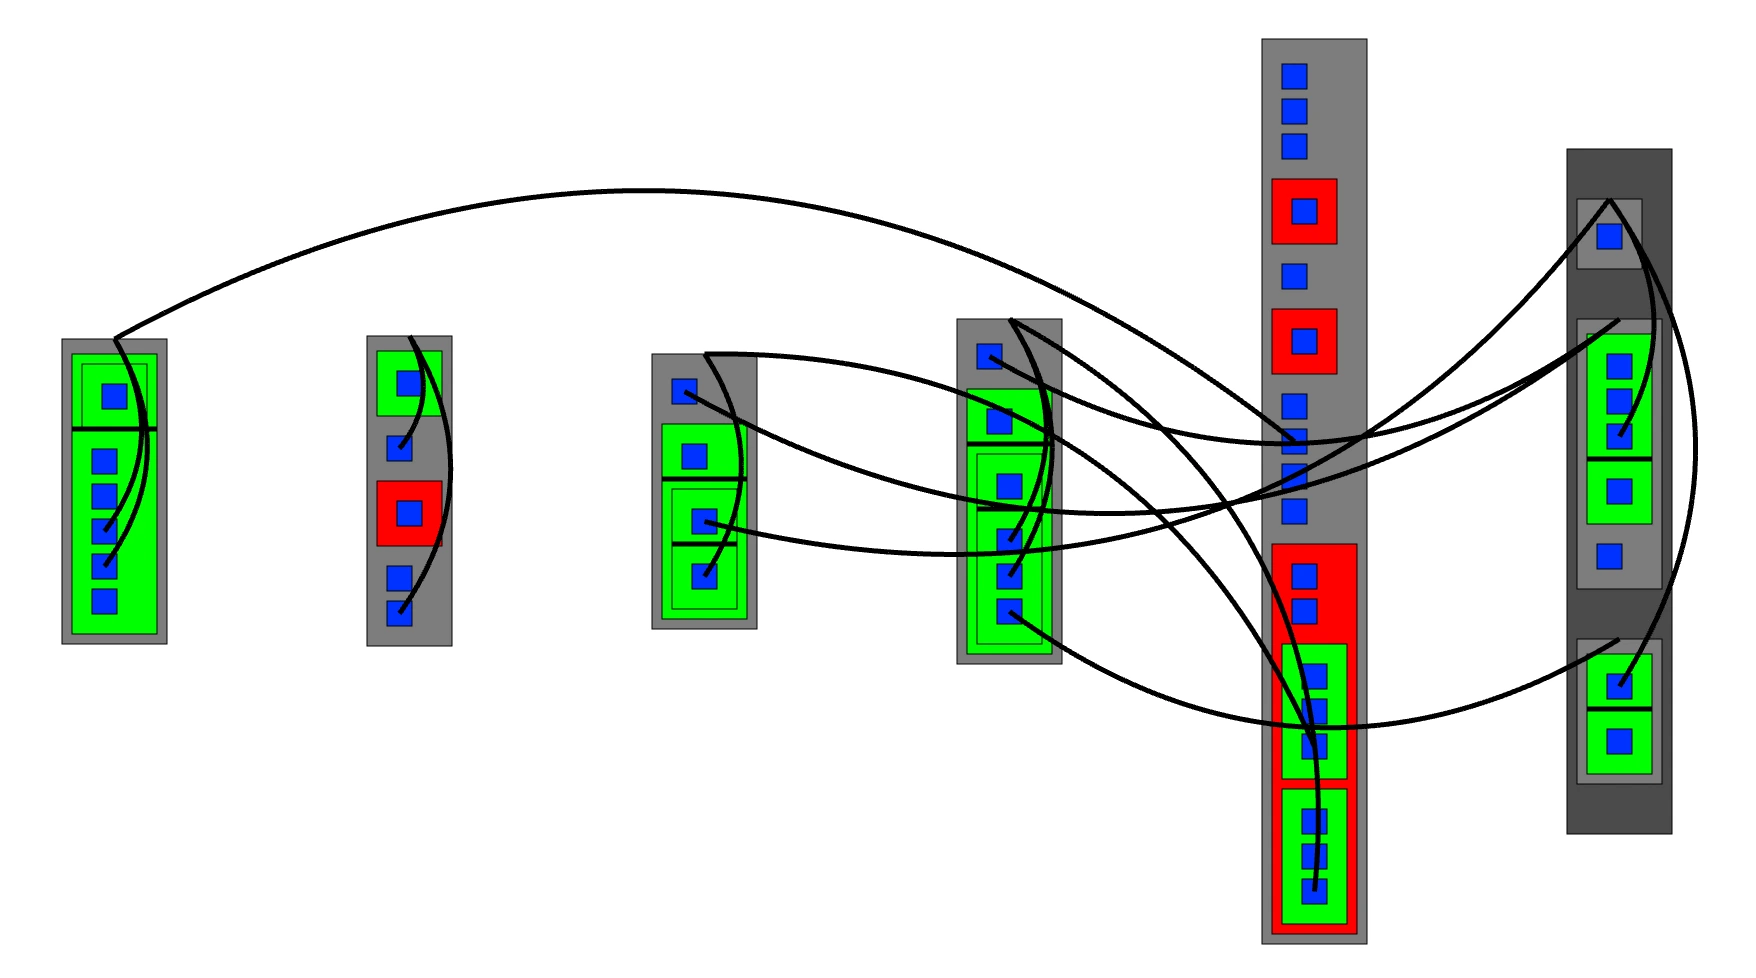
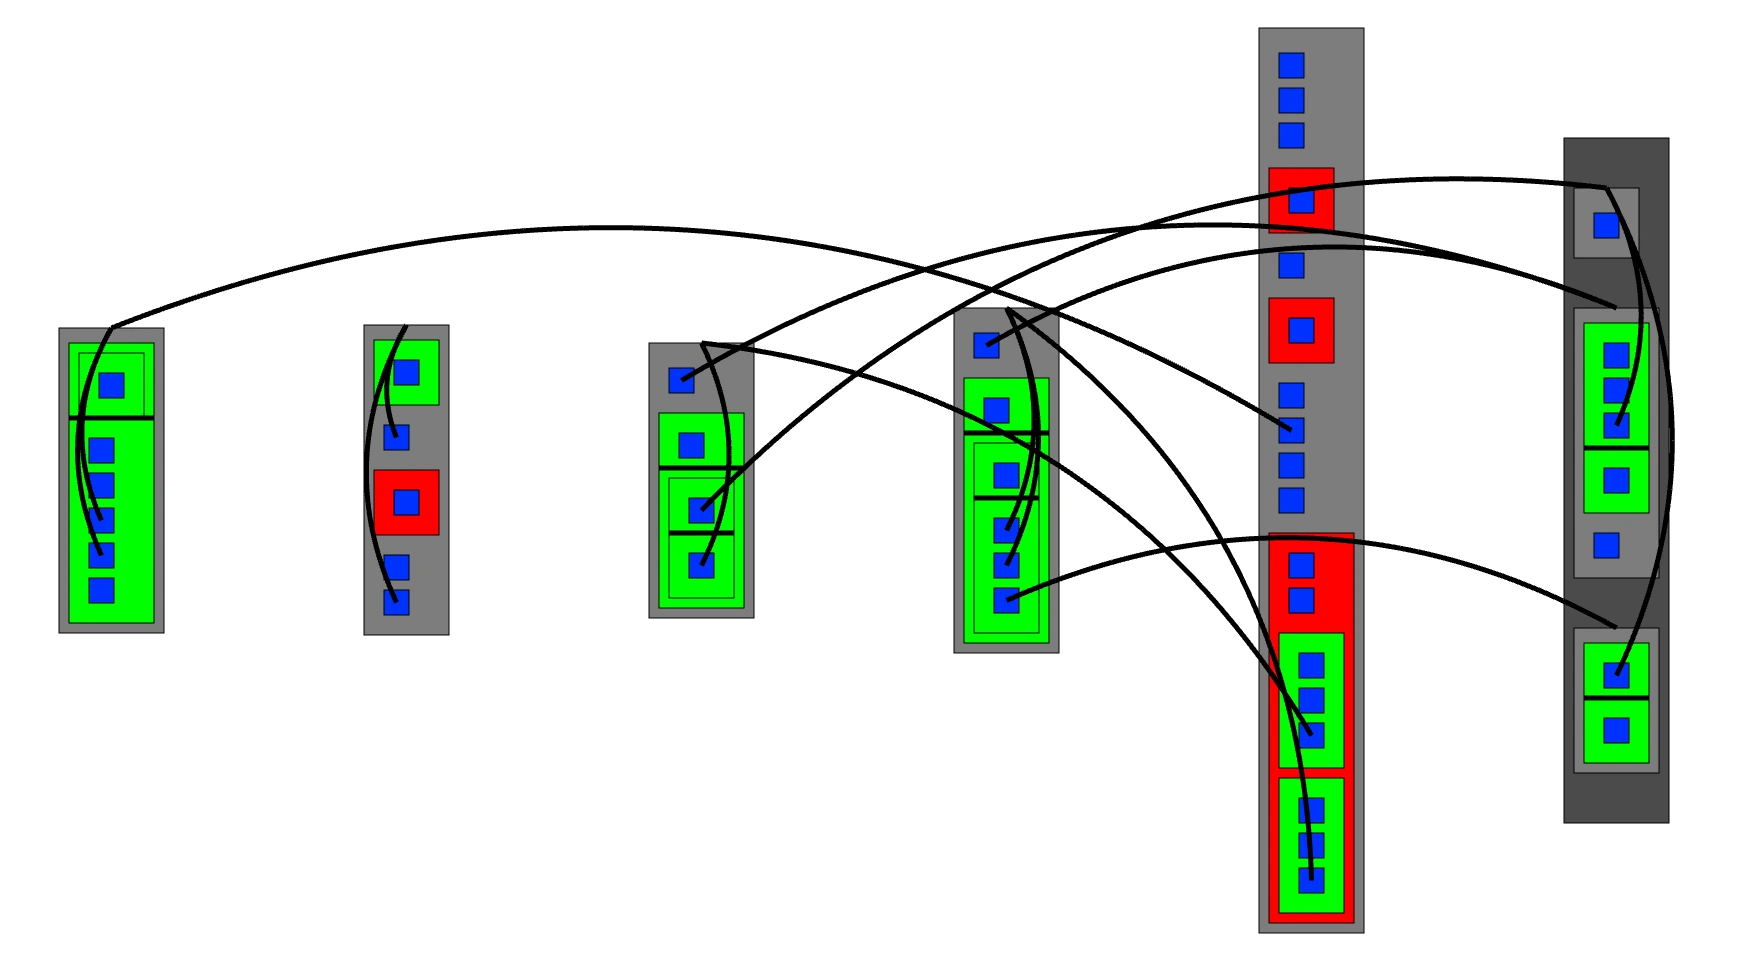
v1.1.2

diff --git a/visualizer/visualizer.py b/visualizer/visualizer.py
@@ -122,11 +122,13 @@ class Parser:
                 elif cursor.kind.name == 'CLASS_DECL':
                     if self.code_tree.classes.get(cursor.get_usr()) is None:
                         self.code_tree.classes[cursor.get_usr()] = Class(None)
-                    self.code_tree.classes[cursor.get_usr()].parse_cpp(cursor, self.bruteforce, self.verbose)
+                    self.code_tree.classes[cursor.get_usr()].parse_cpp(cursor, self.code_tree, self.bruteforce,
+                                                                       self.verbose)
                 elif cursor.kind.name == 'STRUCT_DECL':
                     if self.code_tree.structures.get(cursor.get_usr()) is None:
                         self.code_tree.structures[cursor.get_usr()] = Struct(None)
-                    self.code_tree.structures[cursor.get_usr()].parse_cpp(cursor, self.code_tree, self.bruteforce, self.verbose)
+                    self.code_tree.structures[cursor.get_usr()].parse_cpp(cursor, self.code_tree, self.bruteforce,
+                                                                          self.verbose)
                 else:
                     output_error(self.bruteforce, "Error: ", cursor.kind.name, " not supported!!")
 
@@ -134,7 +136,11 @@ class Parser:
         self.code_tree.nodes.append(node)
         if type(node) != CodeLine:
             for i in node.body_nodes:
-                self.detect_all_objects(i)
+                if type(i) == str:
+                    # this is a dictionary
+                    self.detect_all_objects(node.body_nodes[i])
+                else:
+                    self.detect_all_objects(i)
             if type(node) == If:
                 for i in node.else_nodes:
                     self.detect_all_objects(i)
@@ -219,7 +225,12 @@ class Visualizer(arcade.Window):
         self.graphics_info[node] = NodeGraphicsInfo(node)
         if type(node) != CodeLine:
             for i in node.body_nodes:
-                self.set_graphics_info(i)
+                if type(i) == str:
+                    # this is a dictionary
+                    self.set_graphics_info(node.body_nodes[i])
+                else:
+                    self.set_graphics_info(i)
+
             # FIXME: probably this if type(node) == If thing should have a more elegant solution
             if type(node) == If:
                 for i in node.else_nodes:
@@ -314,19 +325,22 @@ class Visualizer(arcade.Window):
             self.graphics_info[node].size_y = 0 + scaler.BUFFER_SIZE_CLASS_VERTICAL * (len(node.body_nodes) + 1)
             # calculate new size:
             for i in node.body_nodes:
-                self.compute_node_size(i, scaler)
-                self.graphics_info[node].size_y += self.graphics_info[i].size_y
+                self.compute_node_size(node.body_nodes[i], scaler)
+                self.graphics_info[node].size_y += self.graphics_info[node.body_nodes[i]].size_y
                 self.graphics_info[node].size_x = max(self.graphics_info[node].size_x,
-                                                      self.graphics_info[i].size_x + scaler.BUFFER_SIZE_HORIZONTAL * 2)
+                                                      self.graphics_info[node.body_nodes[i]].size_x +
+                                                      scaler.BUFFER_SIZE_HORIZONTAL * 2)
+
         elif type(node) == Struct:
             self.graphics_info[node].size_x = 0
             self.graphics_info[node].size_y = 0 + scaler.BUFFER_SIZE_CLASS_VERTICAL * (len(node.body_nodes) + 1)
             # calculate new size:
             for i in node.body_nodes:
-                self.compute_node_size(i, scaler)
-                self.graphics_info[node].size_y += self.graphics_info[i].size_y
+                self.compute_node_size(node.body_nodes[i], scaler)
+                self.graphics_info[node].size_y += self.graphics_info[node.body_nodes[i]].size_y
                 self.graphics_info[node].size_x = max(self.graphics_info[node].size_x,
-                                                      self.graphics_info[i].size_x + scaler.BUFFER_SIZE_HORIZONTAL * 2)
+                                                      self.graphics_info[node.body_nodes[i]].size_x +
+                                                      scaler.BUFFER_SIZE_HORIZONTAL * 2)
         else:
             raise RuntimeError("unknown type:", type(node))
 
@@ -374,15 +388,15 @@ class Visualizer(arcade.Window):
             offset_x += scaler.BUFFER_SIZE_HORIZONTAL
             for i in node.body_nodes:
                 offset_y -= scaler.BUFFER_SIZE_CLASS_VERTICAL
-                offset_y -= self.graphics_info[i].size_y
-                self.compute_node_position(i, scaler, offset_x, offset_y)
+                offset_y -= self.graphics_info[node.body_nodes[i]].size_y
+                self.compute_node_position(node.body_nodes[i], scaler, offset_x, offset_y)
         elif type(node) == Struct:
             offset_y += self.graphics_info[node].size_y
             offset_x += scaler.BUFFER_SIZE_HORIZONTAL
             for i in node.body_nodes:
                 offset_y -= scaler.BUFFER_SIZE_CLASS_VERTICAL
-                offset_y -= self.graphics_info[i].size_y
-                self.compute_node_position(i, scaler, offset_x, offset_y)
+                offset_y -= self.graphics_info[node.body_nodes[i]].size_y
+                self.compute_node_position(node.body_nodes[i], scaler, offset_x, offset_y)
         else:
             raise RuntimeError("unknown type:", type(node))
 
@@ -410,17 +424,21 @@ class Visualizer(arcade.Window):
             prev_point_x = self.graphics_info[node].start_pos_x
             prev_point_y = self.graphics_info[node].start_pos_y
 
+            curvature_sign = 1
+            if self.graphics_info[node].end_pos_x - self.graphics_info[node].start_pos_x > 0:
+                curvature_sign = -1
+
             while t < 1.001:
                 v = [self.graphics_info[node].end_pos_x - self.graphics_info[node].start_pos_x,
                      self.graphics_info[node].end_pos_y - self.graphics_info[node].start_pos_y]
                 perp_v = [v[1], -v[0]]
                 x = quadBezier(t, self.graphics_info[node].start_pos_x,
                                (self.graphics_info[node].start_pos_x + self.graphics_info[node].end_pos_x) // 2 +
-                               perp_v[0] * self.scaler.LINE_CURVATURE,
+                               perp_v[0] * self.scaler.LINE_CURVATURE * curvature_sign,
                                self.graphics_info[node].end_pos_x)
                 y = quadBezier(t, self.graphics_info[node].start_pos_y,
                                (self.graphics_info[node].start_pos_y + self.graphics_info[node].end_pos_y) // 2 +
-                               perp_v[1] * self.scaler.LINE_CURVATURE,
+                               perp_v[1] * self.scaler.LINE_CURVATURE * curvature_sign,
                                self.graphics_info[node].end_pos_y)
                 arcade.draw_line(prev_point_x, prev_point_y,
                                  x, y,
@@ -459,8 +477,14 @@ class Visualizer(arcade.Window):
         if type(node) != CodeLine:
             offset_y = 0
             for i in node.body_nodes:
-                self.recursive_node_draw(i)
-                offset_y += self.graphics_info[i].size_y + self.scaler.BUFFER_SIZE_VERTICAL
+                if type(i) == str:
+                    # this is a dictionary
+                    self.recursive_node_draw(node.body_nodes[i])
+                    offset_y += self.graphics_info[node.body_nodes[i]].size_y + self.scaler.BUFFER_SIZE_VERTICAL
+                else:
+                    self.recursive_node_draw(i)
+                    offset_y += self.graphics_info[i].size_y + self.scaler.BUFFER_SIZE_VERTICAL
+
             if type(node) == If and node.else_nodes:
                 arcade.draw_line(self.graphics_info[node].pos_x,
                                  self.graphics_info[node].pos_y + self.graphics_info[node].size_y - offset_y,

diff --git a/visualizer/tree_objects.py b/visualizer/tree_objects.py
@@ -189,20 +189,35 @@ class Function(Node):
 class Class(Node):
     def __init__(self, parent_node):
         super().__init__(parent_node)
-        self.body_nodes = []
+        self.body_nodes = {}
         self.name = ""
 
-    def parse_cpp(self, cursor: clang.cindex.Cursor, bruteforce: bool, verbose: bool):
+    def parse_cpp(self, cursor: clang.cindex.Cursor, code_tree: CodeTree, bruteforce: bool, verbose: bool):
         self.name = cursor.spelling
 
-        # FIXME: parse class data (methods are parsed externally)
+        for i in cursor.get_children():
+            if i.kind.name == 'FIELD_DECL':
+                pass
+                # TODO: parse field declarations
+            elif i.kind.name == 'CONSTRUCTOR':
+                pass
+                # TODO: parse struct constructor
+            elif i.kind.name == 'CXX_METHOD':
+                code_tree.methods[i.get_usr()] = Function(self)
+                self.body_nodes[i.get_usr()] = code_tree.methods[i.get_usr()]
+                code_tree.methods[i.get_usr()].parse_cpp(i, bruteforce, verbose)
+            elif i.kind.name == 'CXX_ACCESS_SPEC_DECL':
+                pass
+                # nothing should be here, access specifiers are taken from methods themselves
+            else:
+                output_error(bruteforce, "Unknown class field: ", i.kind.name, " location: ", i.location)
         # TODO: add print method
 
 
 class Struct(Node):
     def __init__(self, parent_node):
         super().__init__(parent_node)
-        self.body_nodes = []
+        self.body_nodes = {}
         self.name = ""
 
     def parse_cpp(self, cursor: clang.cindex.Cursor, code_tree: CodeTree, bruteforce: bool, verbose: bool):
@@ -219,7 +234,7 @@ class Struct(Node):
                 # TODO: parse struct constructor
             elif i.kind.name == 'CXX_METHOD':
                 code_tree.methods[i.get_usr()] = Function(self)
-                self.body_nodes.append(code_tree.methods[i.get_usr()])
+                self.body_nodes[i.get_usr()] = code_tree.methods[i.get_usr()]
                 code_tree.methods[i.get_usr()].parse_cpp(i, bruteforce, verbose)
             elif i.kind.name == 'CXX_BASE_SPECIFIER':
                 pass

diff --git a/README.md b/README.md
@@ -1,4 +1,4 @@
-# visualizer (v1.1.1b)
+# visualizer (v1.1.2)
 
 This project aims to make a quick visual representation for a C++ project (though Python support is planned).
 
@@ -51,11 +51,10 @@ Why not use `<insert your favorite C++ parser>`?
 so only by using a compiler can we get a 100% correct output.
 Easiest example is `operator <<` which in most parsers is registered as a `binary expression`, when in reality it is a `function call`. 
 
-# What's new in v1.1.1?
-* Curved lines fix
-* Only showing correctly parsed functions / classes
-* Support for 'brute-force' mode and 'verbose mode'
-* Struct support
+# What's new in v1.1.2?
+* Functions defined in .h files in class are now detected
+* Fixed bug, when functions where doubled in structures
+* Lines always curve (idk, looks better)
 
 # Known bugs // missing features:
 * Function calls inside Loop and If conditions are not registered
@@ -65,11 +64,10 @@ Easiest example is `operator <<` which in most parsers is registered as a `binar
 * No way to see how many times a function is called from a single line
 * No support for outside-of-function code
 * No way to resize/move in editor
-* No struct support
 * 5000 tonnes of useless debug output with no way to shut it off
 * It's hard to tell code structure if there are many If statements
-* Class constructors are not registered as function calls
-* If a function is defined in .h, it's not detected
+* Class / struct constructors are not registered as function calls
 * **If an included library is not found, some code may be absent!!! (this can be partually avoided by commenting the problematic include)**
 * No way to add libraries that shouldn't be rendered
 * No switch case support
+* Operator calls are not detected, even if they are user-defined
